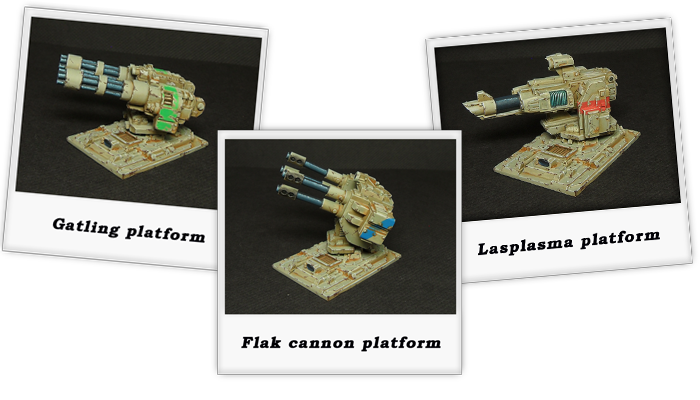
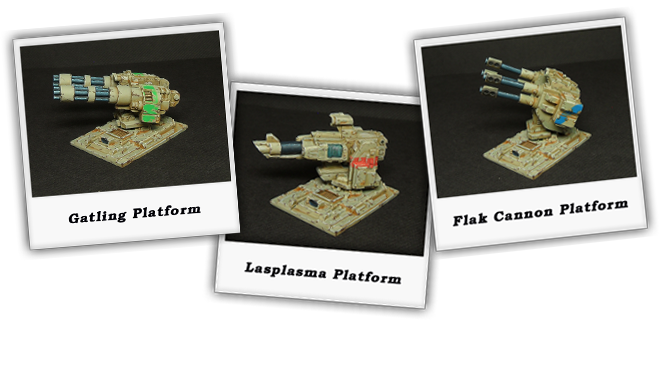
slider finall

diff --git a/app/assets/stylesheets/store/bitspudlo.css b/app/assets/stylesheets/store/bitspudlo.css
@@ -6,17 +6,17 @@ ul.thumbnails-hidden { display: none }
 /* slider */
 /********************/
 
-#bx-main { height:450px; width:100%; min-width: 790px}
+#bx-main { height:450px; width:100%; min-width: 780px}
 #bx-image{clear:both}
 img.bx-image { float:left}
-li.bx-list { width:720px !important; min-width:720px !important}
-.bx-window { width:720px; height:450px; } 
-#bx-header { font: 'Droid Sand'; font-size:40px; color:#ffffff; font-weight:bold; text-shadow: 0px 2px 4px #66859e; float:left; width:500px }
+li.bx-list { width:700px !important; min-width:700px !important}
+.bx-window { width:700px; height:450px; } 
+#bx-header { font: 'Droid Sand'; font-size:40px; color:#ffffff; font-weight:bold; text-shadow: 0px 2px 4px #66859e; float:left; width:400px }
 #bx-left { float:left; margin: 67px -4% 0% 1% }
 div#bx-bottom { height:70px }
-.bx-wrapper { width:720px !important; max-height:600px; margin-left:30px}
-a.bx-launch { background:url("/assets/store/button_launch.png") no-repeat 0 -53px; width:200px; height:53px; display:block; float:left}
-.bx-launch:hover {background-position: 0 0 }
+.bx-wrapper { width:700px !important; max-height:600px; margin-left:36px}
+a.bx-launch { background:url("/assets/store/go_category_en.png") no-repeat 0 0; width:250px; height:50px; display:block; float:left}
+.bx-launch:hover {background-position: 0 -50px }
 .pager-link { background:url("/assets/store/slideshow_bullet.png") no-repeat; padding 0 -40px;}
 .pager-link.pager-active { background:url("/assets/store/slideshow_bullet.png") no-repeat; padding 0 -20px padding-bottom:12px; }
 #bx-description  { width:240px; height:195px; font-family: 'Arial'; font-size:16px; color:#ffffff; text-shadow:0px 1px #4d5861; line-height:1.5em  }
